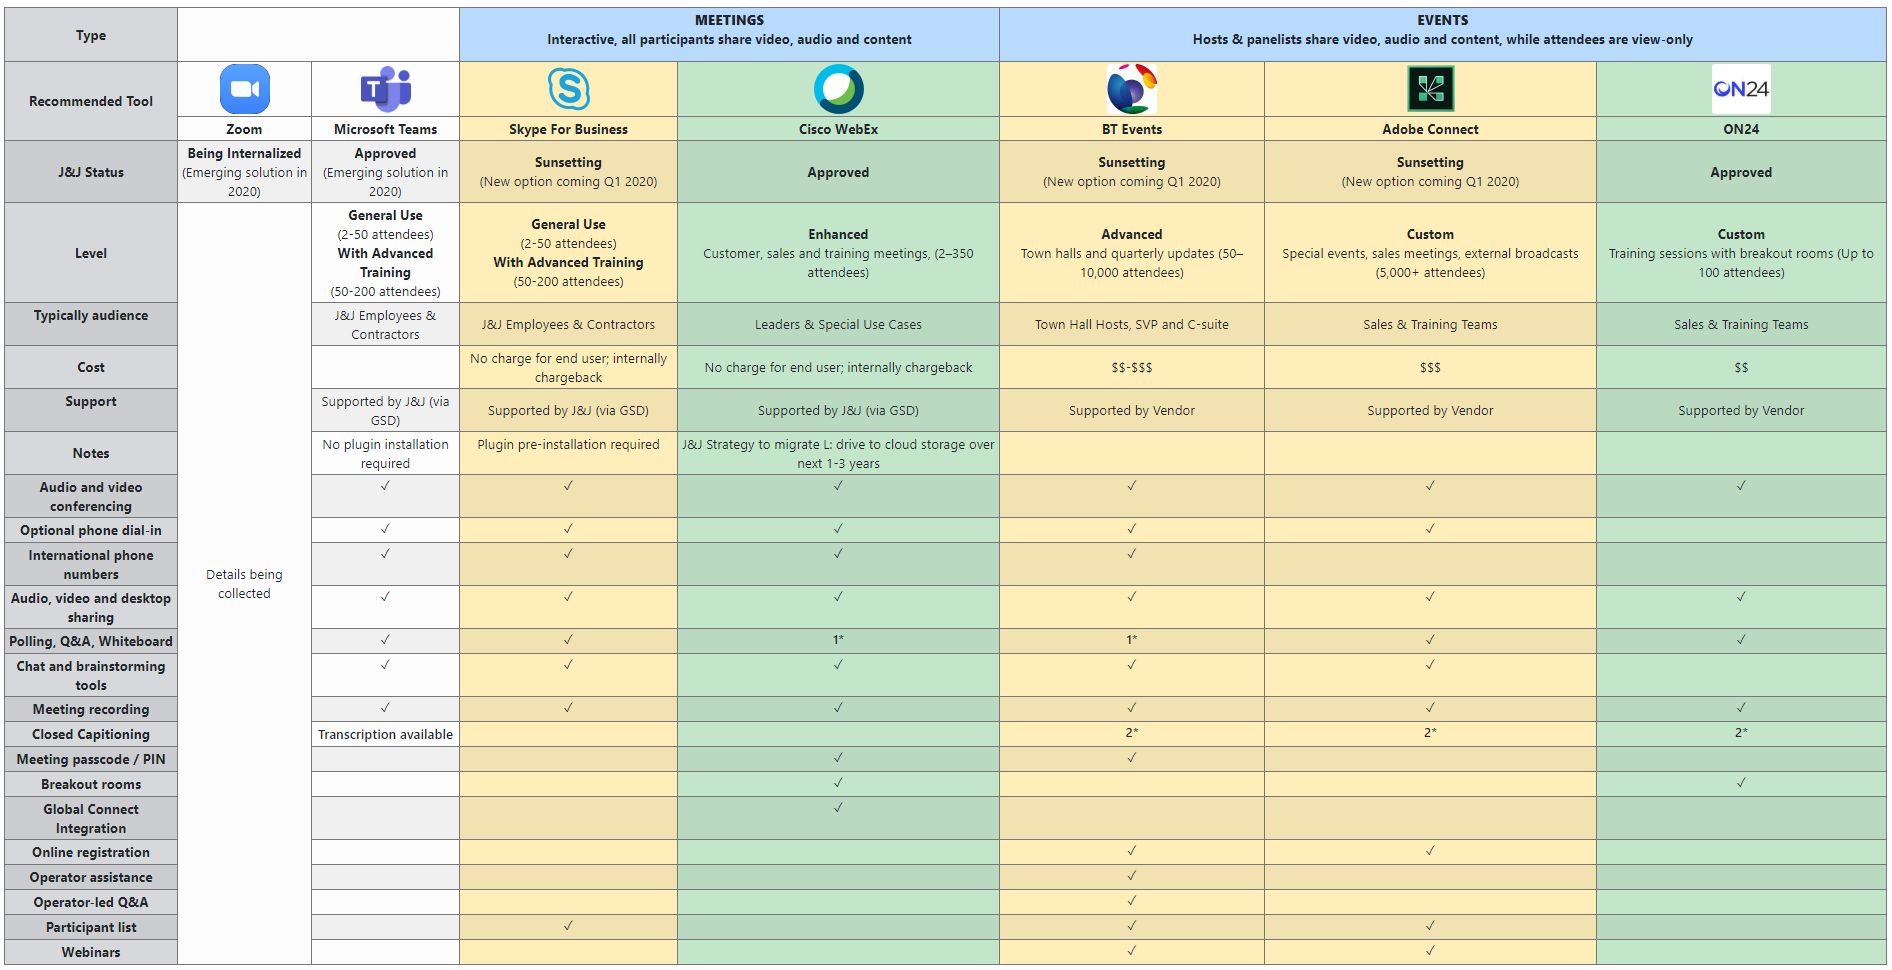
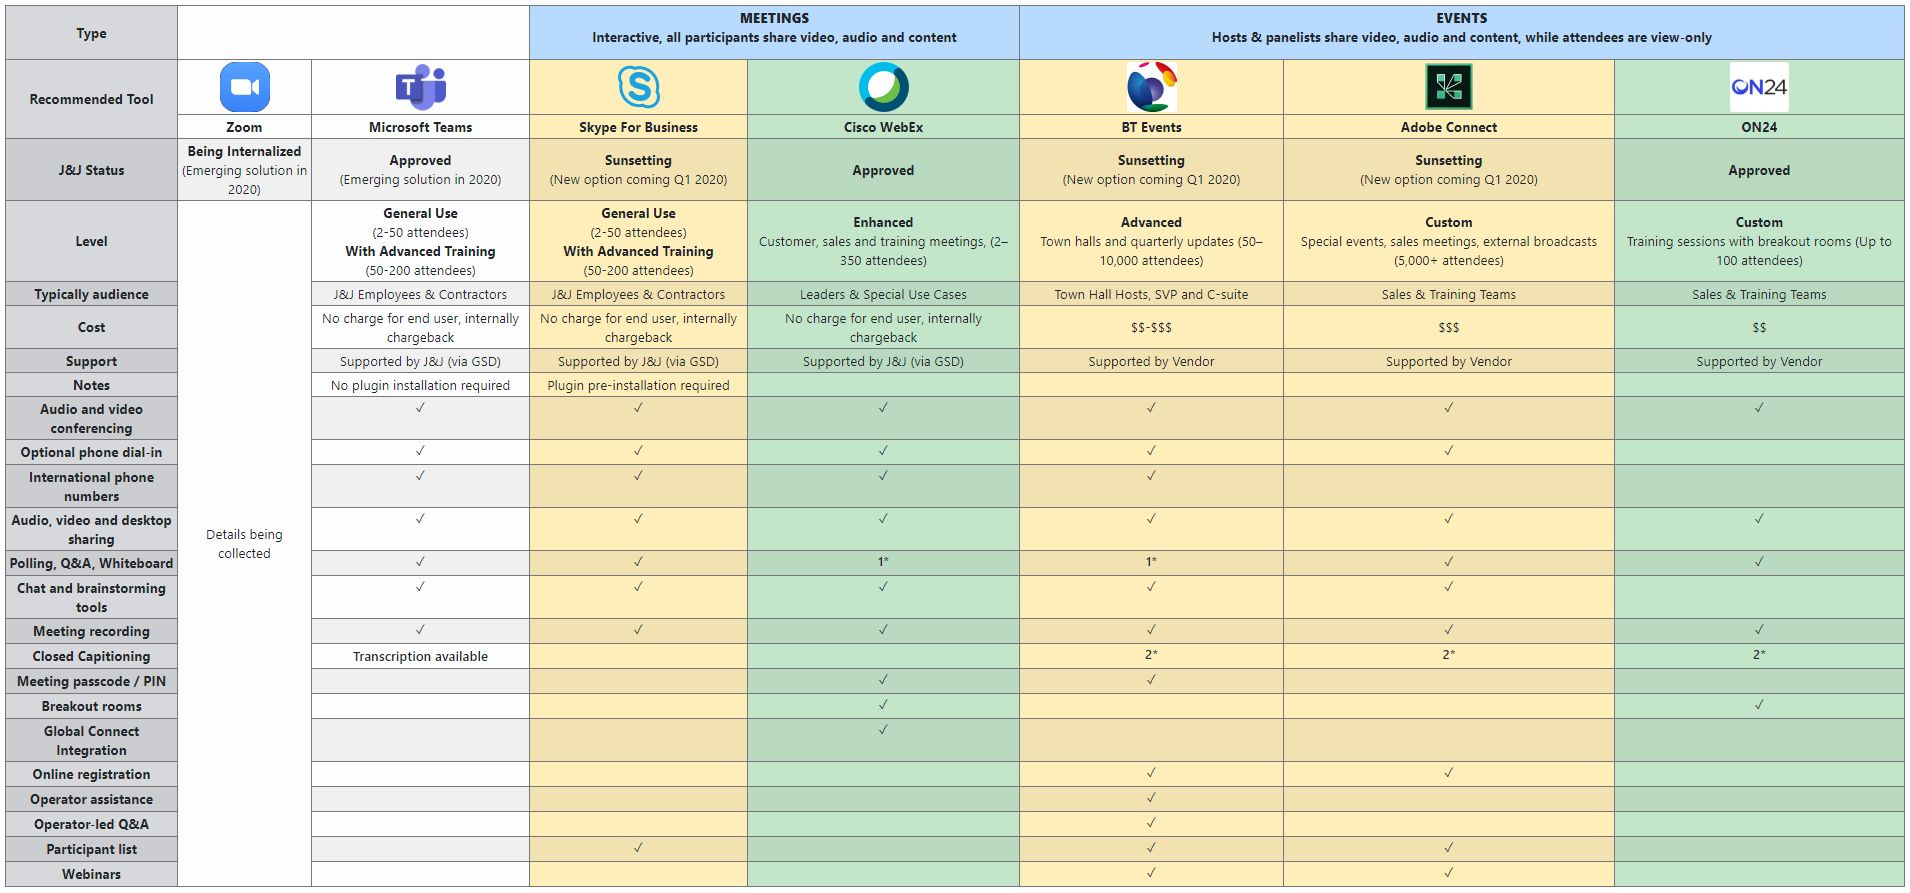
<dssadf

diff --git a/Scenarios/VirtualMeetings/toolkit_vm.html b/Scenarios/VirtualMeetings/toolkit_vm.html
@@ -124,9 +124,9 @@
                     <tr class="text-center">
                         <th scope="row" class="text-center align-middle">Cost</th>
                         <!--td class="align-middle">&nbsp;</td-->    
-                         <td>&nbsp;</td>
-                        <td class="align-middle">No charge for end user; internally chargeback</td>
-                        <td class="align-middle">No charge for end user; internally chargeback</td>
+                        <td class="align-middle">No charge for end user, internally chargeback</td>
+                        <td class="align-middle">No charge for end user, internally chargeback</td>
+                        <td class="align-middle">No charge for end user, internally chargeback</td>
                         <td class="align-middle">$$-$$$</td>
                         <td class="align-middle">$$$</td>
                         <td class="align-middle">$$</td>
@@ -149,7 +149,7 @@
                         <!--td class="align-middle">&nbsp;</td-->  
                         <td>No plugin installation required</td>
                         <td>Plugin pre-installation required</td>
-                        <td><span class="">J&amp;J Strategy to migrate L: drive to cloud storage over next 1-3 years</span></td>
+                        <td>&nbsp;</td>
                         <td>&nbsp;</td>
                         <td>&nbsp;</td>
                         <td>&nbsp;</td>
